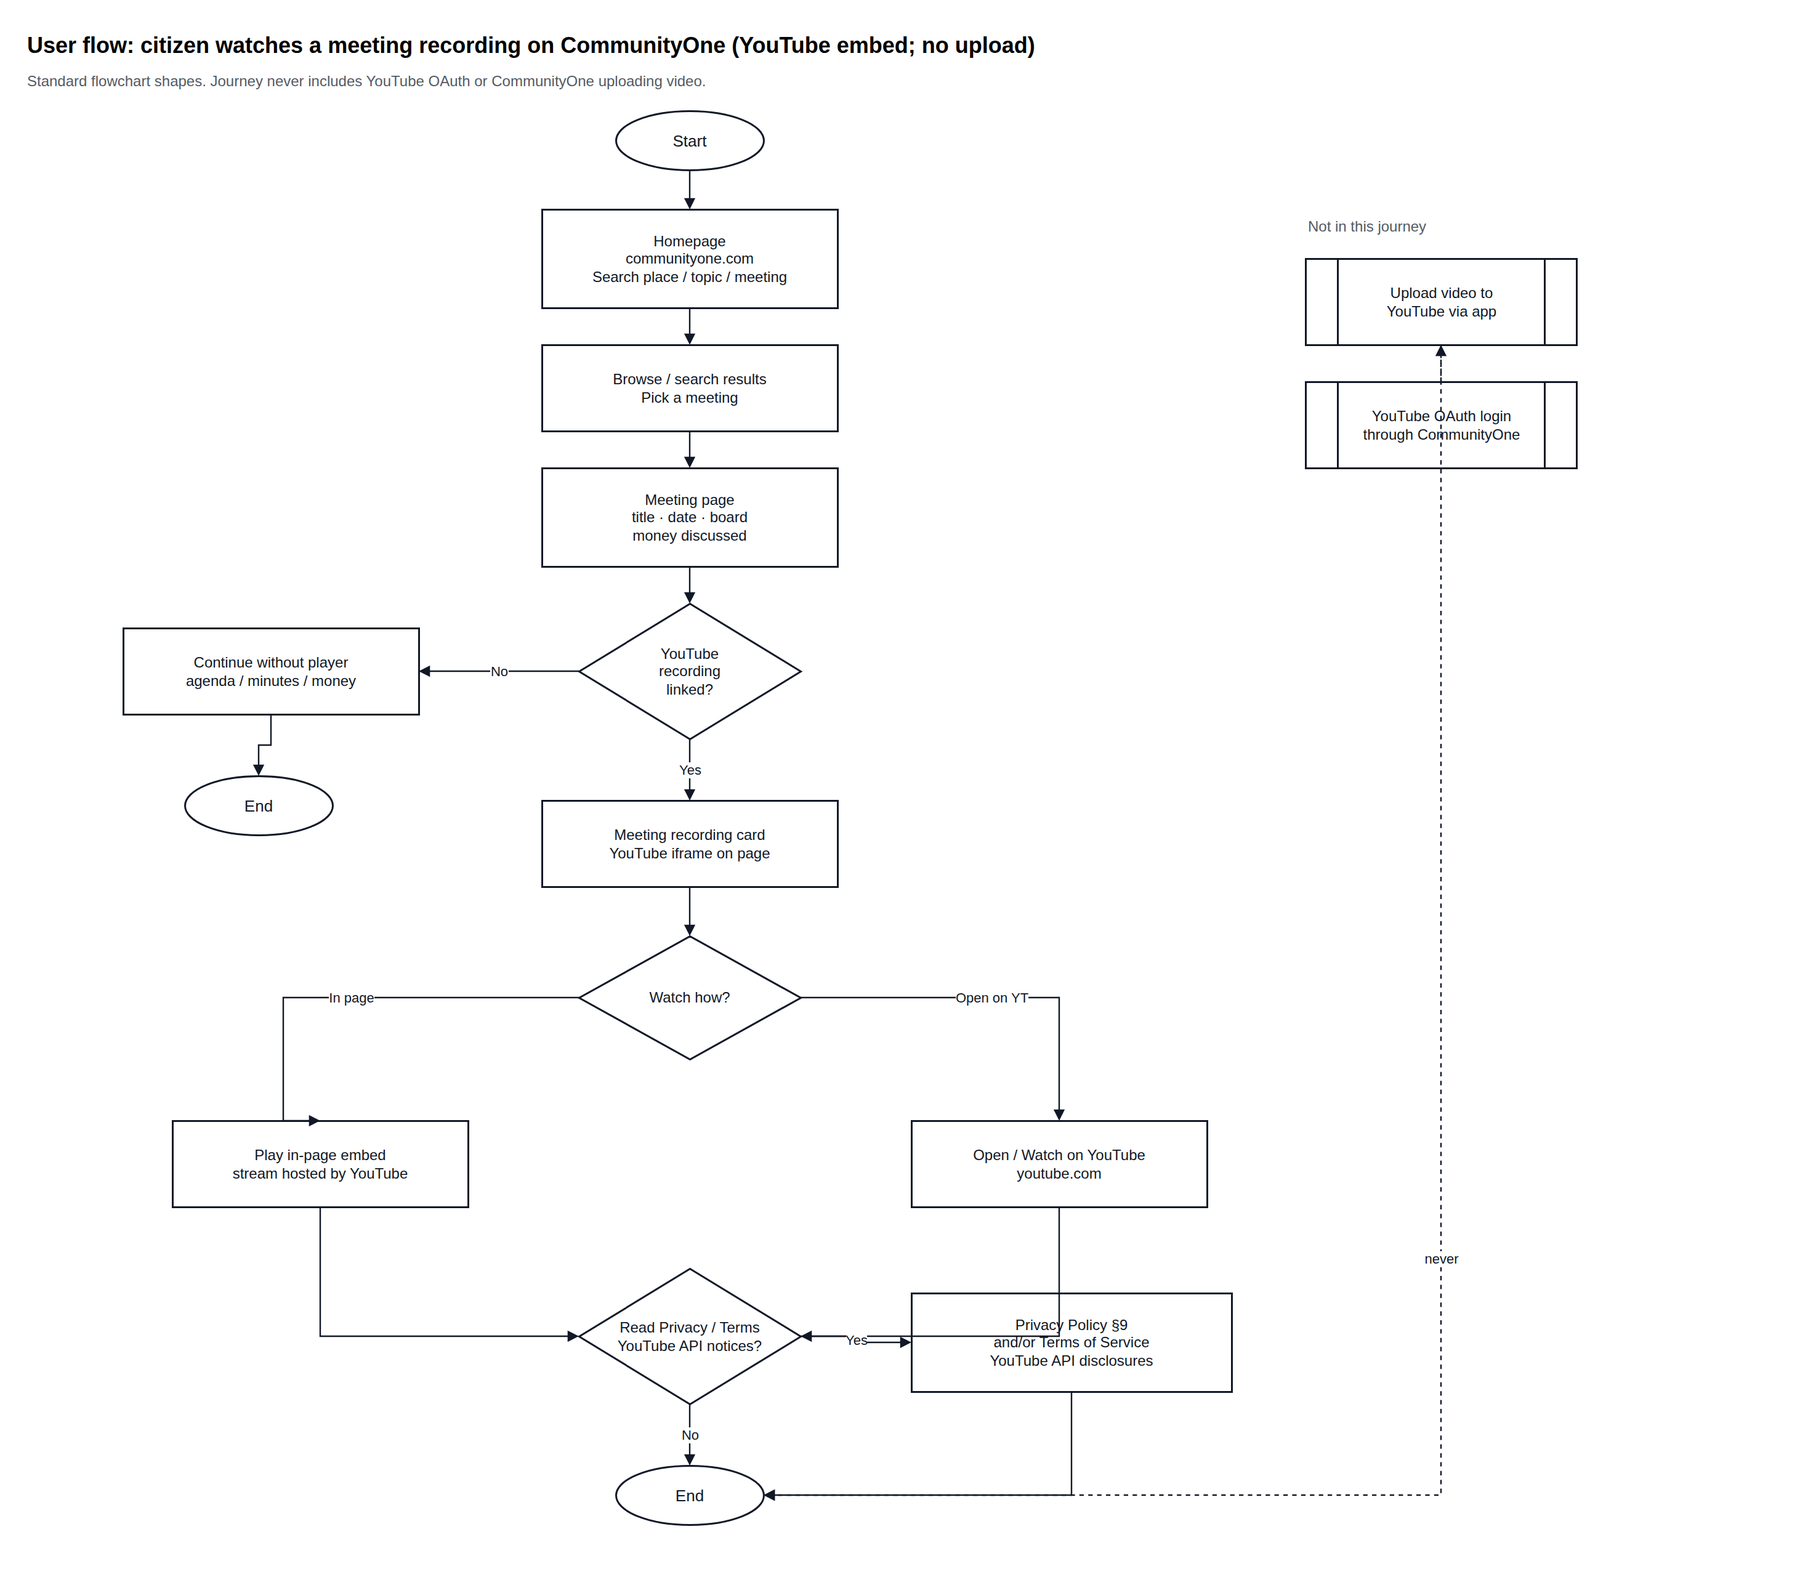
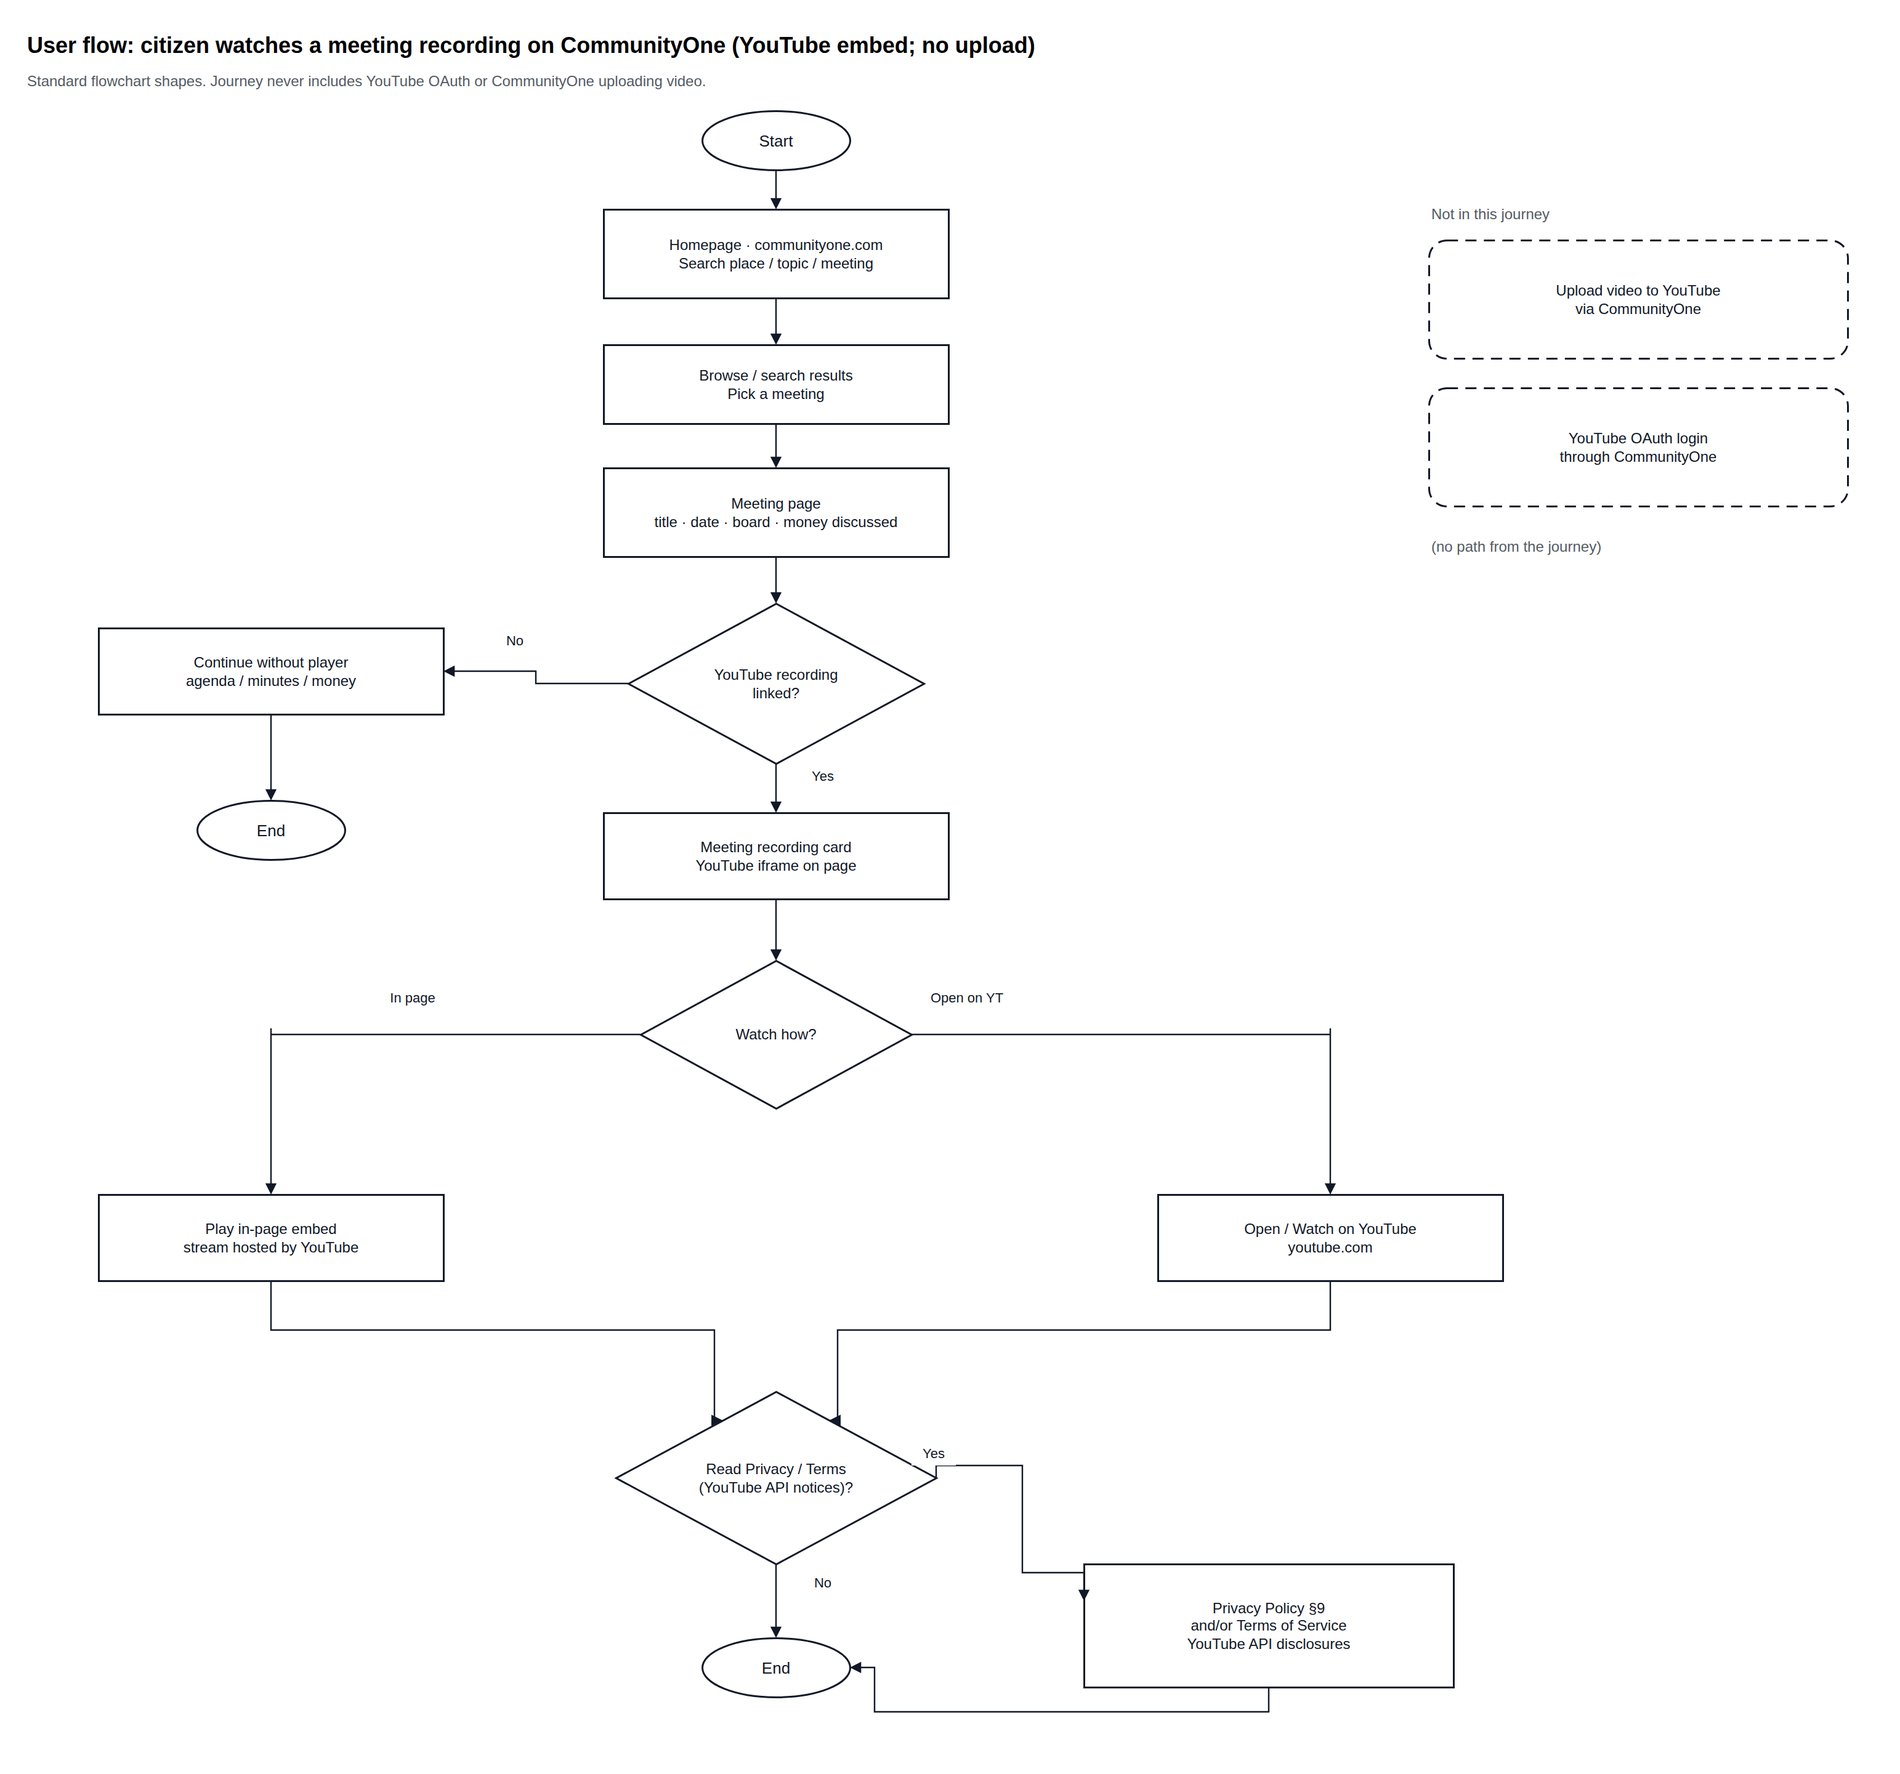
docs(legal): fix user-flow overflows (routing, labels, padding)
Reroute connectors through empty corridors, move Yes/No off strokes, widen diamonds, and replace clipped process-shape cards with dashed out-of-scope cards (#737).

diff --git a/diagrams/youtube-api-audit/_build/build_user_flow_drawio.py b/diagrams/youtube-api-audit/_build/build_user_flow_drawio.py
@@ -1,4 +1,7 @@
-"""Standard flowchart shapes for the citizen YouTube watch journey (oval / rect / diamond)."""
+"""Citizen YouTube watch journey — oval / rect / diamond flowchart.
+
+Routing rule: vias only in empty corridors; Yes/No as opaque label cells.
+"""
 from pathlib import Path
 from xml.sax.saxutils import escape as _escape
 
@@ -23,8 +26,8 @@ def escape(t):
 
 def title(text, x=40, y=10, w=1400):
     cells.append(
-        f'<mxCell id="{nid()}" value="{escape(text)}" style="text;html=1;fontSize=18;fontStyle=1;'
-        f'align=left;" vertex="1" parent="1"><mxGeometry x="{x}" y="{y}" width="{w}" height="30" as="geometry"/></mxCell>'
+        f'<mxCell id="{nid()}" value="{escape(text)}" style="text;html=1;fontSize=18;fontStyle=1;align=left;" '
+        f'vertex="1" parent="1"><mxGeometry x="{x}" y="{y}" width="{w}" height="30" as="geometry"/></mxCell>'
     )
 
 
@@ -36,79 +39,74 @@ def note(text, x, y, w, h=40):
     )
 
 
-def terminal(cid, label, x, y, w=140, h=48):
-    """Oval start/end."""
-    style = (
-        "ellipse;whiteSpace=wrap;html=1;aspect=fixed;fontSize=13;fontColor=#111827;"
-        "strokeColor=#111827;strokeWidth=1.5;fillColor=#ffffff;"
-    )
+def edge_label(text, x, y, w=70, h=22):
     cells.append(
-        f'<mxCell id="{cid}" value="{escape(label)}" style="{style}" vertex="1" parent="1">'
+        f'<mxCell id="{nid()}" value="{escape(text)}" style="rounded=0;whiteSpace=wrap;html=1;fontSize=11;'
+        f'fontColor=#111827;fillColor=#ffffff;strokeColor=none;align=center;verticalAlign=middle;" '
+        f'vertex="1" parent="1"><mxGeometry x="{x}" y="{y}" width="{w}" height="{h}" as="geometry"/></mxCell>'
+    )
+
+
+def terminal(cid, label, x, y, w=120, h=48):
+    cells.append(
+        f'<mxCell id="{cid}" value="{escape(label)}" style="ellipse;whiteSpace=wrap;html=1;fontSize=13;'
+        f'fontColor=#111827;strokeColor=#111827;strokeWidth=1.5;fillColor=#ffffff;" vertex="1" parent="1">'
         f'<mxGeometry x="{x}" y="{y}" width="{w}" height="{h}" as="geometry"/></mxCell>'
     )
 
 
-def process(cid, label, x, y, w=220, h=70):
-    """Rectangle process / page."""
-    style = (
-        "rounded=0;whiteSpace=wrap;html=1;fontSize=12;fontColor=#111827;"
-        "strokeColor=#111827;strokeWidth=1.5;fillColor=#ffffff;align=center;verticalAlign=middle;"
-    )
+def process(cid, label, x, y, w=280, h=72):
     cells.append(
-        f'<mxCell id="{cid}" value="{escape(label).replace(chr(10), "&lt;br&gt;")}" style="{style}" '
+        f'<mxCell id="{cid}" value="{escape(label).replace(chr(10), "&lt;br&gt;")}" '
+        f'style="rounded=0;whiteSpace=wrap;html=1;fontSize=12;fontColor=#111827;strokeColor=#111827;'
+        f'strokeWidth=1.5;fillColor=#ffffff;align=center;verticalAlign=middle;spacing=8;" '
         f'vertex="1" parent="1"><mxGeometry x="{x}" y="{y}" width="{w}" height="{h}" as="geometry"/></mxCell>'
     )
 
 
-def decision(cid, label, x, y, w=200, h=100):
-    """Diamond decision."""
-    style = (
-        "rhombus;whiteSpace=wrap;html=1;fontSize=12;fontColor=#111827;"
-        "strokeColor=#111827;strokeWidth=1.5;fillColor=#ffffff;"
-    )
+def decision(cid, label, x, y, w=200, h=120):
     cells.append(
-        f'<mxCell id="{cid}" value="{escape(label).replace(chr(10), "&lt;br&gt;")}" style="{style}" '
+        f'<mxCell id="{cid}" value="{escape(label).replace(chr(10), "&lt;br&gt;")}" '
+        f'style="rhombus;whiteSpace=wrap;html=1;fontSize=12;fontColor=#111827;strokeColor=#111827;'
+        f'strokeWidth=1.5;fillColor=#ffffff;spacing=10;" vertex="1" parent="1">'
+        f'<mxGeometry x="{x}" y="{y}" width="{w}" height="{h}" as="geometry"/></mxCell>'
+    )
+
+
+def out_card(cid, label, x, y, w=340, h=96):
+    cells.append(
+        f'<mxCell id="{cid}" value="{escape(label).replace(chr(10), "&lt;br&gt;")}" '
+        f'style="rounded=1;whiteSpace=wrap;html=1;fontSize=12;fontColor=#111827;strokeColor=#111827;'
+        f'strokeWidth=1.5;dashed=1;dashPattern=6 4;fillColor=#ffffff;align=center;verticalAlign=middle;'
+        f'spacing=14;spacingTop=12;spacingBottom=12;spacingLeft=16;spacingRight=16;" '
         f'vertex="1" parent="1"><mxGeometry x="{x}" y="{y}" width="{w}" height="{h}" as="geometry"/></mxCell>'
     )
 
 
-def subprocess(cid, label, x, y, w=200, h=70):
-    """Predefined process (double vertical bars)."""
-    style = (
-        "shape=process;whiteSpace=wrap;html=1;fontSize=12;fontColor=#111827;"
-        "strokeColor=#111827;strokeWidth=1.5;fillColor=#ffffff;size=0.12;"
-    )
-    cells.append(
-        f'<mxCell id="{cid}" value="{escape(label).replace(chr(10), "&lt;br&gt;")}" style="{style}" '
-        f'vertex="1" parent="1"><mxGeometry x="{x}" y="{y}" width="{w}" height="{h}" as="geometry"/></mxCell>'
-    )
-
-
-def edge(src, dst, label="", exit=None, entry=None, via=(), dashed=False):
+def edge(src, dst, exit=None, entry=None, via=()):
     pts = ""
     if exit:
         pts += f"exitX={exit[0]};exitY={exit[1]};exitDx=0;exitDy=0;"
     if entry:
         pts += f"entryX={entry[0]};entryY={entry[1]};entryDx=0;entryDy=0;"
     style = (
-        "edgeStyle=orthogonalEdgeStyle;rounded=0;orthogonalLoop=1;html=1;endArrow=block;endFill=1;"
-        f"strokeColor=#111827;strokeWidth=1.2;fontSize=11;fontColor=#111827;"
-        f"labelBackgroundColor=#ffffff;{'dashed=1;' if dashed else ''}{pts}"
+        "edgeStyle=orthogonalEdgeStyle;rounded=0;orthogonalLoop=1;jettySize=auto;html=1;"
+        f"endArrow=block;endFill=1;strokeColor=#111827;strokeWidth=1.2;{pts}"
     )
     geo = '<mxGeometry relative="1" as="geometry">'
     if via:
         geo += '<Array as="points">' + "".join(f'<mxPoint x="{x}" y="{y}"/>' for x, y in via) + "</Array>"
     geo += "</mxGeometry>"
     cells.append(
-        f'<mxCell id="{nid()}" value="{escape(label)}" style="{style}" edge="1" parent="1" '
+        f'<mxCell id="{nid()}" value="" style="{style}" edge="1" parent="1" '
         f'source="{src}" target="{dst}">{geo}</mxCell>'
     )
 
 
-def save(name, page_w=1400, page_h=1100):
+def save(name, page_w=1600, page_h=1500):
     xml = (
         f'<mxfile host="app.diagrams.net" agent="open-navigator youtube-api-audit">'
-        f'<diagram name="{name}"><mxGraphModel dx="1400" dy="1100" grid="1" gridSize="10" guides="1" '
+        f'<diagram name="{name}"><mxGraphModel dx="1600" dy="1500" grid="1" gridSize="10" guides="1" '
         f'page="1" pageScale="1" pageWidth="{page_w}" pageHeight="{page_h}" background="#ffffff"><root>'
         + "".join(cells)
         + "</root></mxGraphModel></diagram></mxfile>"
@@ -126,57 +124,80 @@ def build():
         "Standard flowchart shapes. Journey never includes YouTube OAuth or CommunityOne uploading video.",
         40,
         42,
-        1200,
+        1400,
         28,
     )
 
-    # Main column (center) — happy path down
-    terminal("start", "Start", 520, 80, 120, 48)
-    process("home", "Homepage\ncommunityone.com\nSearch place / topic / meeting", 460, 160, 240, 80)
-    process("results", "Browse / search results\nPick a meeting", 460, 270, 240, 70)
-    process("meeting", "Meeting page\ntitle · date · board\nmoney discussed", 460, 370, 240, 80)
-    decision("has_rec", "YouTube\nrecording\nlinked?", 490, 480, 180, 110)
+    # Main spine
+    terminal("start", "Start", 590, 80, 120, 48)
+    process("home", "Homepage · communityone.com\nSearch place / topic / meeting", 510, 160, 280, 72)
+    process("results", "Browse / search results\nPick a meeting", 510, 270, 280, 64)
+    process("meeting", "Meeting page\ntitle · date · board · money discussed", 510, 370, 280, 72)
+    decision("has_rec", "YouTube recording\nlinked?", 530, 480, 240, 130)
 
-    # No branch (left)
-    process("no_player", "Continue without player\nagenda / minutes / money", 120, 500, 240, 70)
-    terminal("end_no", "End", 170, 620, 120, 48)
+    process("no_player", "Continue without player\nagenda / minutes / money", 100, 500, 280, 70)
+    terminal("end_no", "End", 180, 640, 120, 48)
 
-    # Yes → player
-    process("player", "Meeting recording card\nYouTube iframe on page", 460, 640, 240, 70)
-    decision("watch_how", "Watch how?", 490, 750, 180, 100)
+    process("player", "Meeting recording card\nYouTube iframe on page", 510, 650, 280, 70)
+    decision("watch_how", "Watch how?", 540, 770, 220, 120)
 
-    process("embed", "Play in-page embed\nstream hosted by YouTube", 160, 900, 240, 70)
-    process("external", "Open / Watch on YouTube\nyoutube.com", 760, 900, 240, 70)
+    # Watch options — wide gap so corridors don't share x with privacy later
+    process("embed", "Play in-page embed\nstream hosted by YouTube", 100, 960, 280, 70)
+    process("external", "Open / Watch on YouTube\nyoutube.com", 960, 960, 280, 70)
 
-    decision("legal", "Read Privacy / Terms\nYouTube API notices?", 490, 1020, 180, 110)
-    process("privacy", "Privacy Policy §9\nand/or Terms of Service\nYouTube API disclosures", 760, 1040, 260, 80)
-    terminal("end_yes", "End", 520, 1180, 120, 48)
+    # Legal: inputs enter from the TOP (corridor y=1070 is empty)
+    decision("legal", "Read Privacy / Terms\n(YouTube API notices)?", 520, 1120, 260, 140)
 
-    # Out of journey (right)
-    note("Not in this journey", 1080, 160, 220, 24)
-    subprocess("never_up", "Upload video to\nYouTube via app", 1080, 200, 220, 70)
-    subprocess("never_oauth", "YouTube OAuth login\nthrough CommunityOne", 1080, 300, 220, 70)
+    # Privacy sits to the right of End path; End below legal
+    terminal("end_yes", "End", 590, 1320, 120, 48)
+    process(
+        "privacy",
+        "Privacy Policy §9\nand/or Terms of Service\nYouTube API disclosures",
+        900,
+        1260,
+        300,
+        100,
+    )
 
-    # Edges
-    edge("start", "home")
-    edge("home", "results")
-    edge("results", "meeting")
-    edge("meeting", "has_rec")
-    edge("has_rec", "no_player", "No", exit=(0, 0.5), entry=(1, 0.5))
-    edge("no_player", "end_no")
-    edge("has_rec", "player", "Yes", exit=(0.5, 1), entry=(0.5, 0))
-    edge("player", "watch_how")
-    edge("watch_how", "embed", "In page", exit=(0, 0.5), entry=(0.5, 0), via=[(250, 800)])
-    edge("watch_how", "external", "Open on YT", exit=(1, 0.5), entry=(0.5, 0), via=[(880, 800)])
-    edge("embed", "legal", "", exit=(0.5, 1), entry=(0, 0.5), via=[(280, 1075)])
-    edge("external", "legal", "", exit=(0.5, 1), entry=(1, 0.5), via=[(880, 1075)])
-    edge("legal", "privacy", "Yes", exit=(1, 0.5), entry=(0, 0.5))
-    edge("legal", "end_yes", "No", exit=(0.5, 1), entry=(0.5, 0))
-    edge("privacy", "end_yes", "", exit=(0.5, 1), entry=(1, 0.5), via=[(890, 1204)])
-    edge("never_up", "end_yes", "never", dashed=True, exit=(0.5, 1), entry=(1, 0.5), via=[(1190, 1204)])
-    edge("never_oauth", "never_up", "", dashed=True)
+    # Out of journey
+    note("Not in this journey", 1180, 150, 340, 24)
+    out_card("never_up", "Upload video to YouTube\nvia CommunityOne", 1180, 185, 340, 96)
+    out_card("never_oauth", "YouTube OAuth login\nthrough CommunityOne", 1180, 305, 340, 96)
+    note("(no path from the journey)", 1180, 420, 340, 24)
 
-    return save("yt2_user_flow", 1400, 1280)
+    # Spine
+    edge("start", "home", exit=(0.5, 1), entry=(0.5, 0))
+    edge("home", "results", exit=(0.5, 1), entry=(0.5, 0))
+    edge("results", "meeting", exit=(0.5, 1), entry=(0.5, 0))
+    edge("meeting", "has_rec", exit=(0.5, 1), entry=(0.5, 0))
+
+    edge("has_rec", "no_player", exit=(0, 0.5), entry=(1, 0.5))
+    edge_label("No", 420, 500, 36, 20)
+    edge("no_player", "end_no", exit=(0.5, 1), entry=(0.5, 0))
+    edge("has_rec", "player", exit=(0.5, 1), entry=(0.5, 0))
+    edge_label("Yes", 670, 610, 36, 20)
+    edge("player", "watch_how", exit=(0.5, 1), entry=(0.5, 0))
+
+    # Watch branches — labels near diamond only
+    edge("watch_how", "embed", exit=(0, 0.5), entry=(0.5, 0), via=[(240, 825), (240, 930)])
+    edge_label("In page", 320, 790, 70, 20)
+    edge("watch_how", "external", exit=(1, 0.5), entry=(0.5, 0), via=[(1100, 825), (1100, 930)])
+    edge_label("Open on YT", 760, 790, 90, 20)
+
+    # Converge into TOP of legal along y=1070 (below watch boxes, above legal)
+    edge("embed", "legal", exit=(0.5, 1), entry=(0.25, 0), via=[(240, 1070), (600, 1070)])
+    edge("external", "legal", exit=(0.5, 1), entry=(0.75, 0), via=[(1100, 1070), (700, 1070)])
+
+    # No → End straight down
+    edge("legal", "end_yes", exit=(0.5, 1), entry=(0.5, 0))
+    edge_label("No", 670, 1265, 36, 20)
+
+    # Yes → privacy (right), then down/left under End into End's right side
+    edge("legal", "privacy", exit=(1, 0.5), entry=(0, 0.3), via=[(850, 1180), (850, 1267)])
+    edge_label("Yes", 760, 1160, 36, 20)
+    edge("privacy", "end_yes", exit=(0.5, 1), entry=(1, 0.5), via=[(1050, 1380), (730, 1380)])
+
+    return save("yt2_user_flow", 1600, 1480)
 
 
 if __name__ == "__main__":
